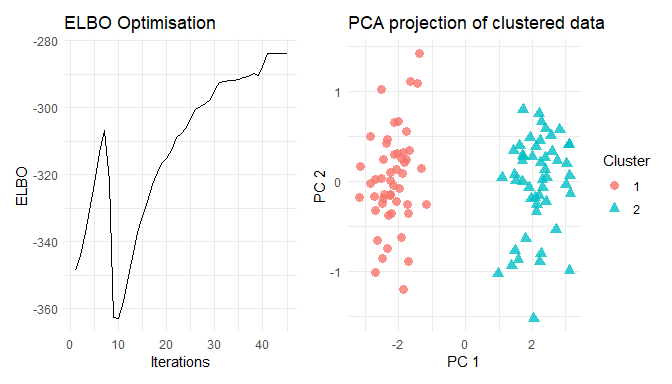
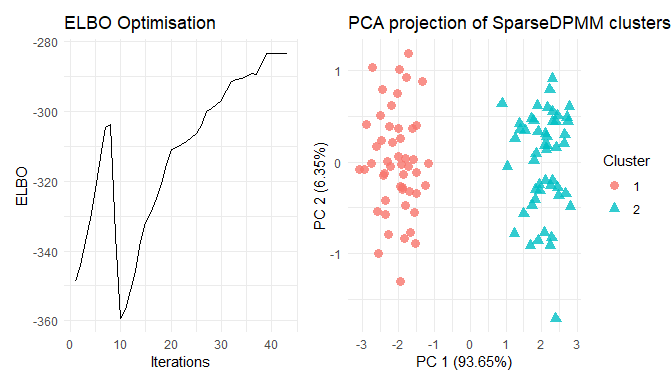
Final commit

diff --git a/README.md b/README.md
@@ -5,7 +5,7 @@
 
 <!-- badges: start -->
 
-[![R-CMD-check](https://github.com/annesh07/CVI/actions/workflows/R-CMD-check.yaml/badge.svg)](https://github.com/annesh07/CVI/actions/workflows/R-CMD-check.yaml)
+[![R-CMD-check](https://github.com/annesh07/vimixr/actions/workflows/R-CMD-check.yaml/badge.svg)](https://github.com/annesh07/vimixr/actions/workflows/R-CMD-check.yaml)
 <!-- badges: end -->
 
 The goal of **vimixr** is to perform collapsed Variational Inference for
@@ -19,7 +19,7 @@ You can install the development version of **vimixr** from
 
 ``` r
 # install.packages("devtools")
-devtools::install_github("annesh07/CVI")
+devtools::install_github("annesh07/vimixr")
 ```
 
 ## Example
@@ -53,11 +53,12 @@ cluster-inspecific fixed diagonal covariance for the data.
           post_precision_scalar_eta = matrix(0.001, 20, 1),
           cov_data = diag(ncol(X)))
   summary(res)
-#>              Length Class  Mode
-#> posterior     5     -none- list
-#> optimisation  2     -none- list
-#> PCA_viz      11     gg     list
-#> ELBO_viz     11     gg     list
+#>              Length Class           Mode     
+#> posterior    5      -none-          list     
+#> optimisation 3      -none-          list     
+#> PCA_viz      1      ggplot2::ggplot S4       
+#> ELBO_viz     1      ggplot2::ggplot S4       
+#> Seed_used    1      -none-          character
   plot(res)
 ```
 

diff --git a/LICENSE.md b/LICENSE.md
@@ -1,6 +1,6 @@
 # MIT License
 
-Copyright (c) 2024 CVI authors
+Copyright (c) 2024 vimixr authors
 
 Permission is hereby granted, free of charge, to any person obtaining a copy
 of this software and associated documentation files (the "Software"), to deal
